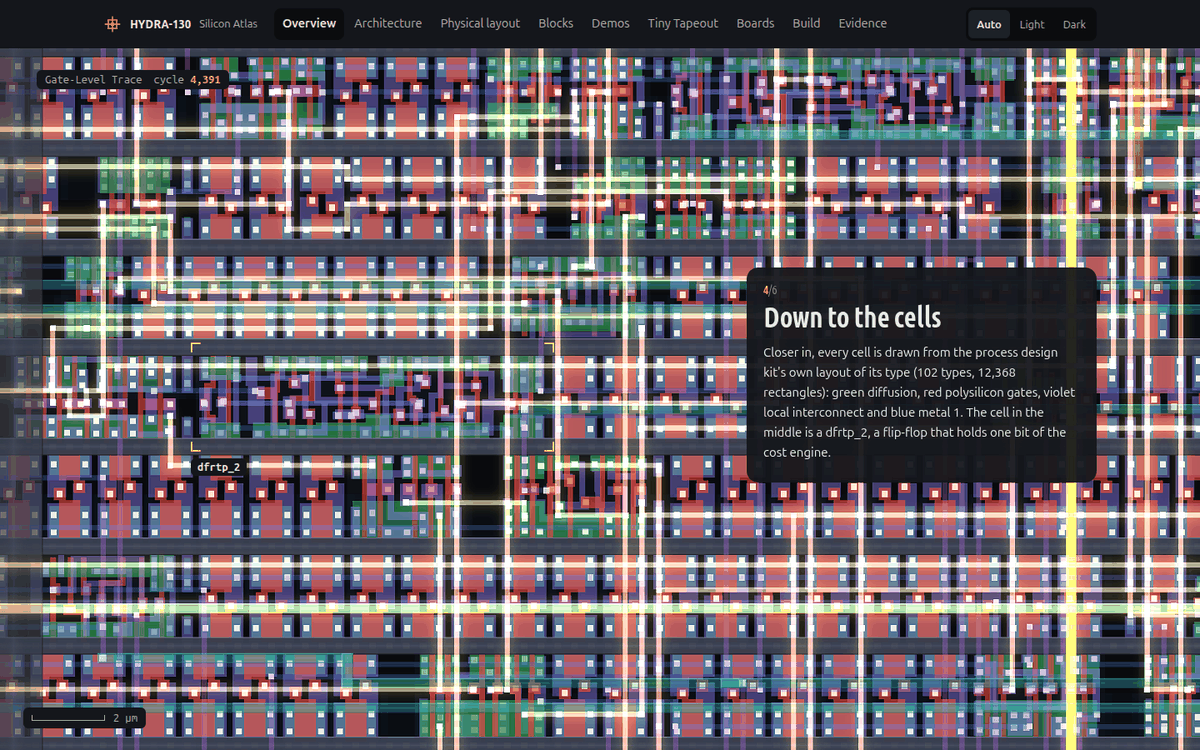
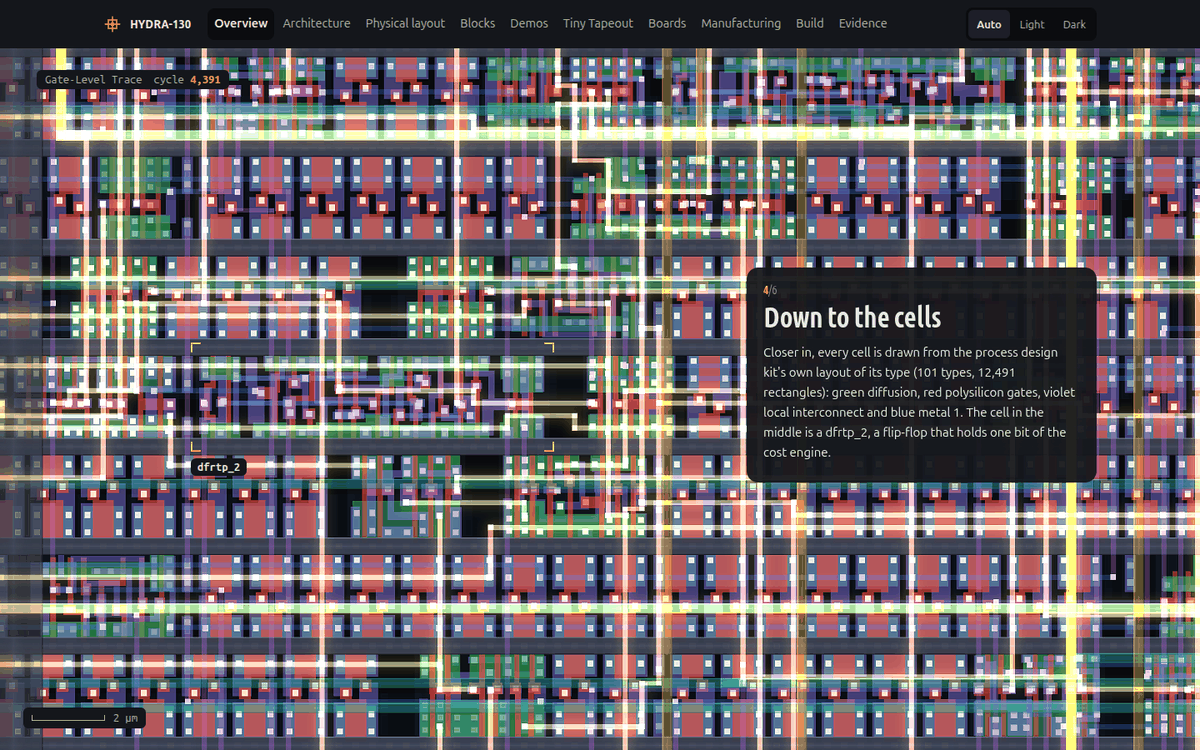
v69: tile v3.16 (fanout limit 4, weak and delay buffers excluded, slew repair margin 30%): DRC, LVS, antenna 0; setup +8.15 ns, hold +0.099 ns at 66 ns; 59.97%; slew 218 -> 59, slow corners only; capacitance 0; 24/24 on the hardened netlist. Tapeout-readiness audit (docs/tapeout: sign-off table, pin

diff --git a/README.md b/README.md
@@ -27,9 +27,9 @@ Maintained by [@Normansrule](https://github.com/Normansrule)
 
 > **Where things stand, by revision.** This tile is the **scheduler only**: no central processing unit (CPU),
 > graphics processing unit (GPU), tensor processing unit (TPU), vector, transform or security hardware is on it.
-> The engines it chooses between are outside it, and the host reports when a job finished. The **v3.12** harden
-> (2026-11-04, one LibreLane run at 4×4 tiles, 66 ns) signed off with design rules, layout versus schematic and
-> antenna clean and timing met at all nine corners, and all 24 tests pass on its netlist. It still has **218
+> The engines it chooses between are outside it, and the host reports when a job finished. The **v3.16** harden
+> (2026-11-16, one LibreLane run at 4×4 tiles, 66 ns) signed off with design rules, layout versus schematic and
+> antenna clean and timing met at all nine corners, and all 24 tests pass on its netlist. It still has **59
 > slew warnings** at the slowest corner. A signed-off layout is not fabricated or tested silicon. This
 > repository's own `gds` workflow (Tiny Tapeout's GitHub flow, which builds the submission) does not yet finish:
 > its Verilator 5.018 lint stops on one reset loop in `src/project.v` (BLKLOOPINIT) that Verilator 5.032 accepts.
@@ -63,7 +63,7 @@ Maintained by [@Normansrule](https://github.com/Normansrule)
 This tile in motion, filmed from the atlas page:
 
 <p align="center">
-  <img src="docs/img/story.webp" width="100%" alt="The atlas's opening story filmed from the page: the hardened tile's whole routed layout, the dispatch unit's cells coloured by block, one decision lighting the wires cycle by cycle, single standard cells, the cells and four metal layers pulled apart into a turning 3D stack, and the whole tile again with the 2,125 nets that switched.">
+  <img src="docs/img/story.webp" width="100%" alt="The atlas's opening story filmed from the page: the hardened tile's whole routed layout, the dispatch unit's cells coloured by block, one decision lighting the wires cycle by cycle, single standard cells, the cells and four metal layers pulled apart into a turning 3D stack, and the whole tile again with the 2,669 nets that switched.">
 </p>
 
 The [Silicon Atlas](https://normansrule.github.io/hydra-skywater130/) opens on this tile's own routed layout from
@@ -94,7 +94,7 @@ And back out to the whole tile, with every net that is high at the select glowin
 
 <picture>
   <source media="(prefers-color-scheme: dark)" srcset="docs/img/atlas-switched.dark.png">
-  <img src="docs/img/atlas-switched.png" width="100%" alt="The whole tile with the nets that are high at the select glowing amber, and the card: 2,125 nets switched to make one decision, 13% of the tile's nets, changing value 4,687 times in 28 cycles.">
+  <img src="docs/img/atlas-switched.png" width="100%" alt="The whole tile with the nets that are high at the select glowing amber, and the card: 2,669 nets switched to make one decision, 14% of the tile's nets, changing value 5,938 times in 28 cycles.">
 </picture>
 
 The same layout is a free explorer: zoom, step through the recorded cycles, switch layers, select a wire to name
@@ -215,6 +215,8 @@ by Tiny Tapeout's own tool (`make render-layout` in the parent). A layout, not f
 |---|---|
 | Tile tests on RTL (`make tile` in the parent) | **24 / 24** |
 | Deliberate breaks (`test/mutate_sim.py`) | each caught by the test named for it |
+| v3.16 harden, 2026-11-16 (fanout limit 4; buf_1, buf_2, clkbuf_1, clkbuf_2 and every delay buffer excluded; slew repair margin 30%; RTL as v3.12) | sign-off clean: DRC, LVS, antenna 0; setup +8.15 ns (v3.16), hold +0.099 ns worst corner; 60.0% of the core; **slew 59 / 46 / 29** at the slow corners and 0 / 0 / 0 at the typical corners, 0 capacitance |
+| Gate level on the v3.16 netlist | **24 / 24** |
 | v3.12 harden, 2026-11-04 (MAX_FANOUT_CONSTRAINT 6; netlist proved equivalent to v3.11) | sign-off clean: DRC, LVS, antenna 0; setup +7.23 ns (v3.12), hold +0.096 ns worst corner; 51.7% of the core; **slew 218 / 156 / 113** at the slow corners and 12 / 0 / 0 at the typical corners, 0 capacitance |
 | Gate level on the v3.12 netlist | **24 / 24** |
 | v3.10 harden, 2026-10-18 (the scheduler liveness fix) | sign-off clean: DRC, LVS, antenna 0; setup +14.06 ns (v3.10), hold +0.105 ns worst corner; 48.6% of the core; **slew 1,230 / 819 / 557** at the slow corners and 21 / 11 / 11 at the typical corners, 0 capacitance |

diff --git a/docs/info.md b/docs/info.md
@@ -146,11 +146,12 @@ peripheral at 1 MHz, a few milliseconds bit-banged.
 
 ## Timing and area
 
-The latest signed-off harden is v3.12 (2026-11-04, 4x4, one LibreLane run):
-every corner met setup at 66 ns, worst setup slack +7.23 ns and worst hold
-slack +0.096 ns, DRC, LVS and antenna clean, 51.7% utilisation, and 24 of 24
-tests pass on the hardened netlist. It still has 218 slew warnings at the
-slowest corner. The first signed-off harden was v2 (2026-10-05, 4x4: slow-corner
+The latest signed-off harden is v3.16 (2026-11-16, 4x4, one LibreLane run):
+every corner met setup at 66 ns, worst setup slack +8.15 ns and worst hold
+slack +0.099 ns, DRC, LVS and antenna clean, 60.0% utilisation, and 24 of 24
+tests pass on the hardened netlist. It still has 59 slew warnings at the
+slowest corner (59 / 46 / 29 at the three slow corners, none at the typical and
+fast ones; v3.12 had 218). The first signed-off harden was v2 (2026-10-05, 4x4: slow-corner
 slack +2.199 ns, 17 of 17 tests on its netlist). v3 is the same logic minus the
 parts listed at the top of `info.yaml`, on 4x4 tiles (3x4 was tried for v3.1
 and did not route). The cell counts below are synthesis estimates, not harden
